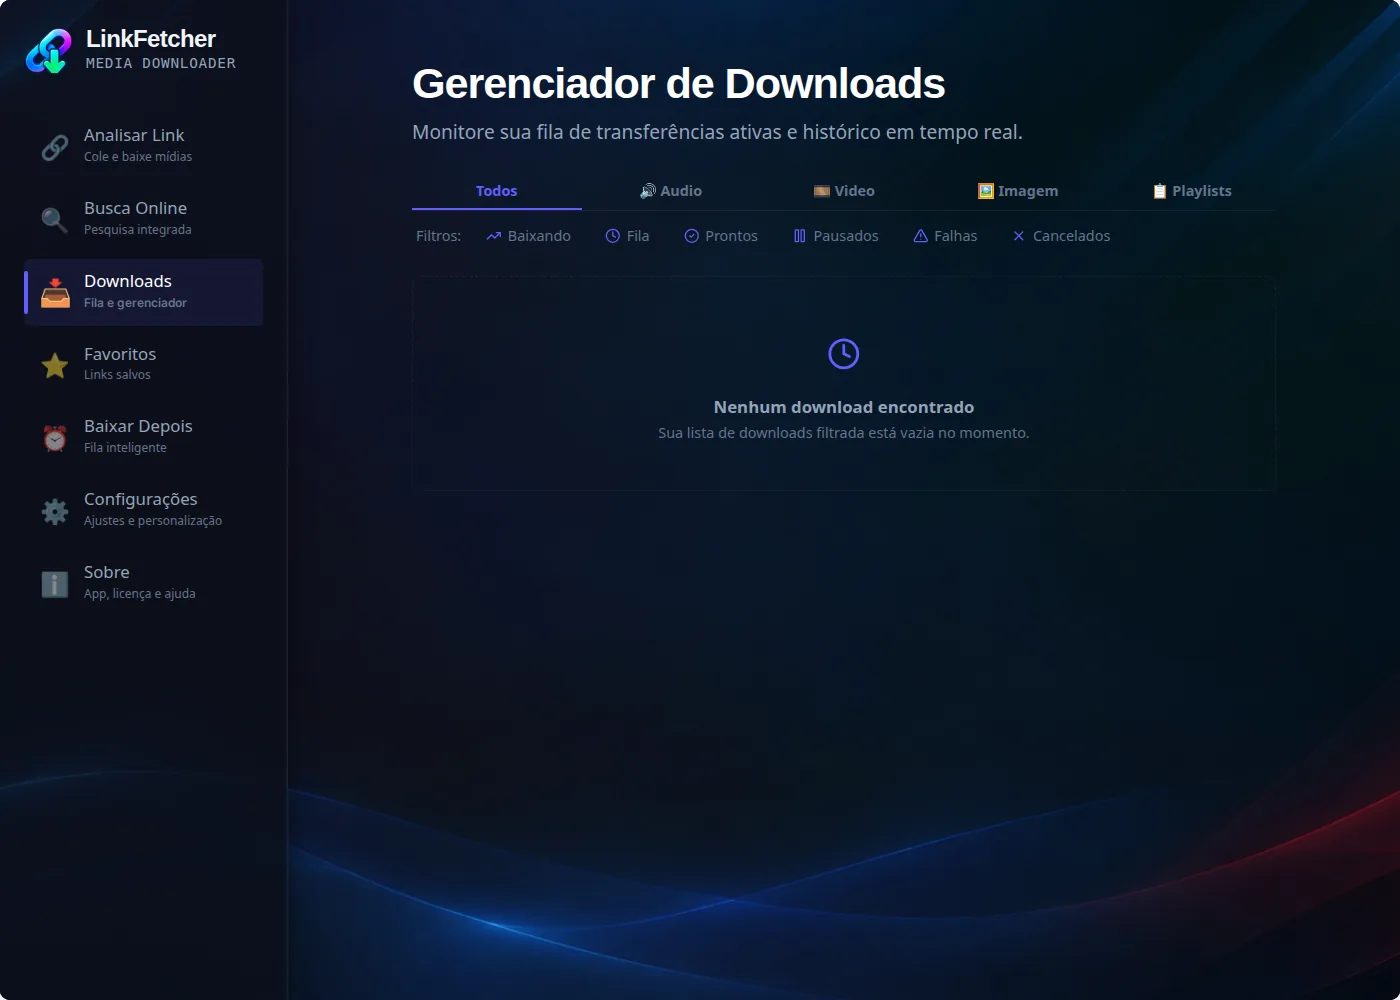
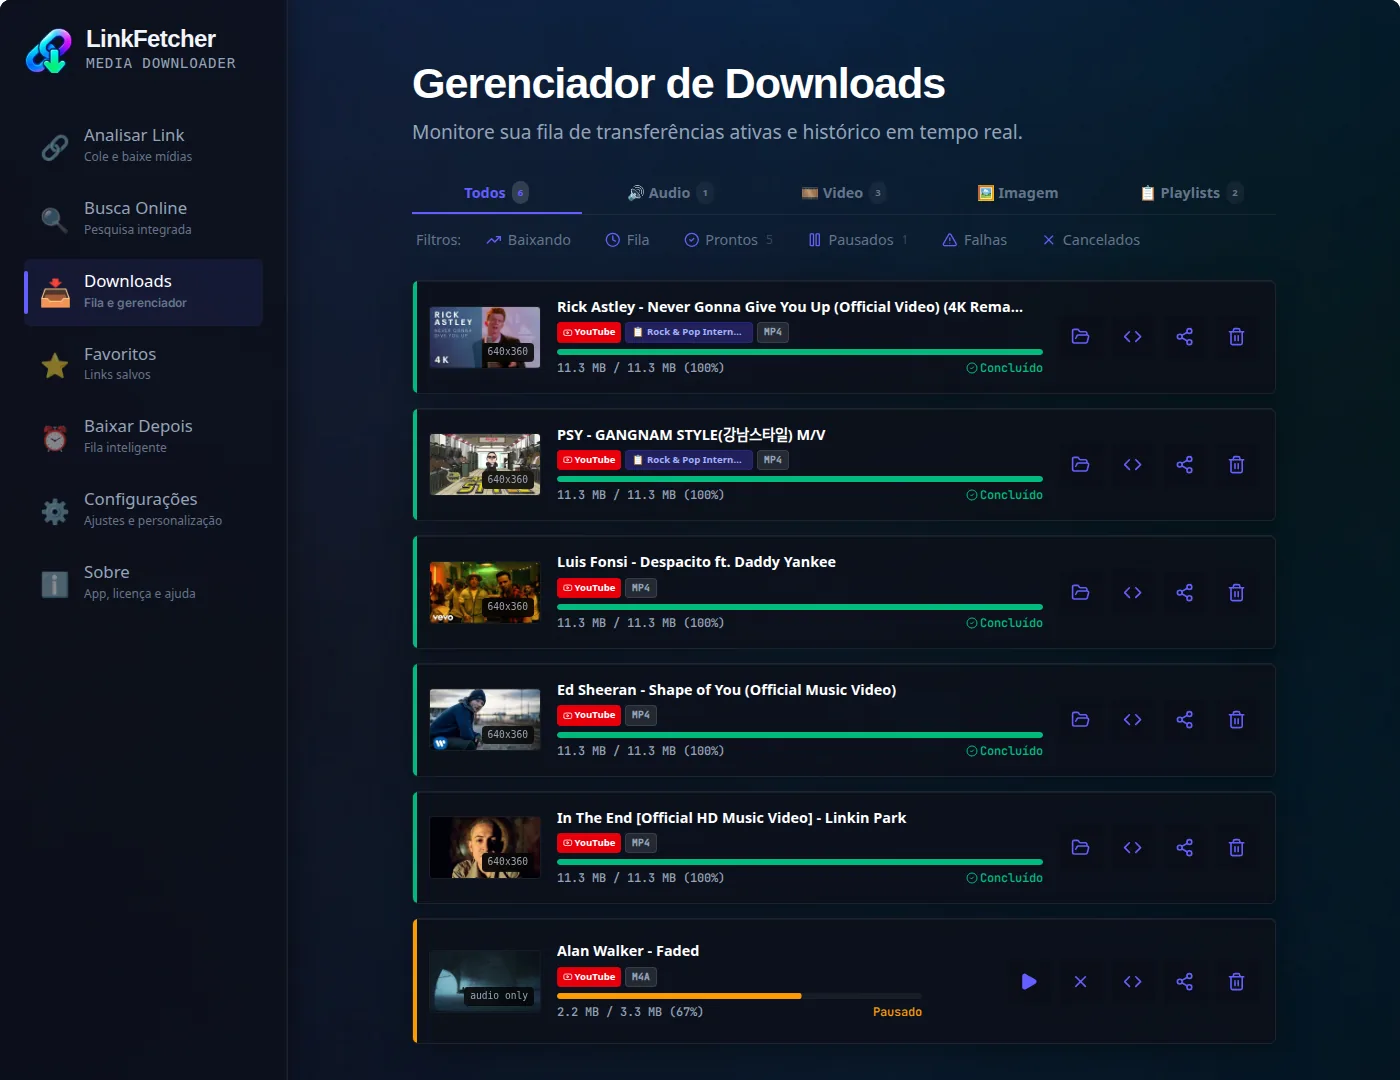
docs: galeria completa (avançado, playlist, downloads, favoritos, depois)

diff --git a/README.md b/README.md
@@ -12,13 +12,21 @@
 
 ## Screenshots
 
-| Analyzer | PRO checkout |
+| Analyzer (real video, options expanded) | PRO checkout (5 plans) |
 |---|---|
 | ![Analyzer](screenshots/01-analisar.webp) | ![PRO plans](screenshots/03-pro.webp) |
 
-| Downloads | Settings |
+| Advanced tab | Playlist analyzed (bulk download) |
 |---|---|
-| ![Downloads](screenshots/04-downloads.webp) | ![Settings](screenshots/05-ajustes.webp) |
+| ![Advanced options](screenshots/02-avancado.webp) | ![Playlist](screenshots/06-playlist.webp) |
+
+| Downloads (5 done + 1 paused) | Favorites |
+|---|---|
+| ![Downloads](screenshots/04-downloads.webp) | ![Favorites](screenshots/07-favoritos.webp) |
+
+| Download later | Settings |
+|---|---|
+| ![Download later](screenshots/08-baixar-depois.webp) | ![Settings](screenshots/05-ajustes.webp) |
 
 ## PRO plans
 
